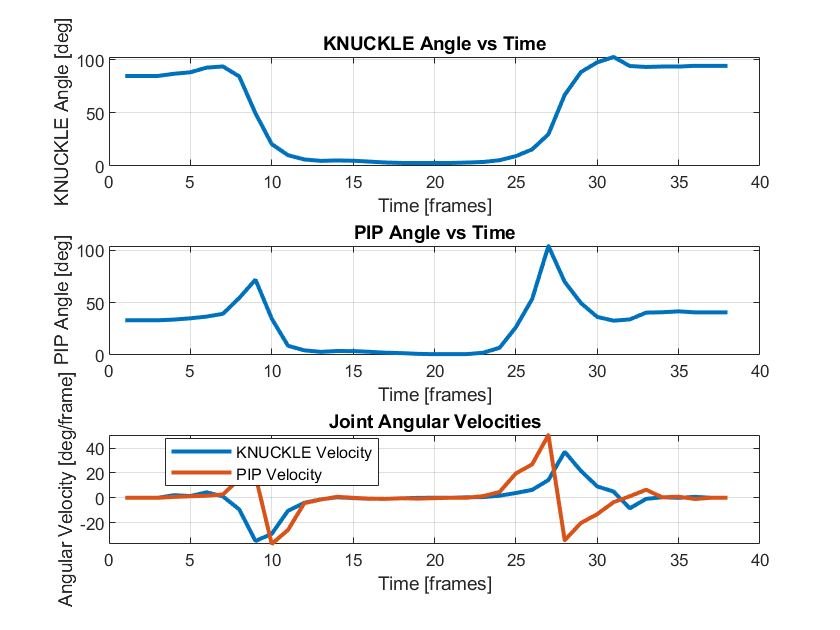
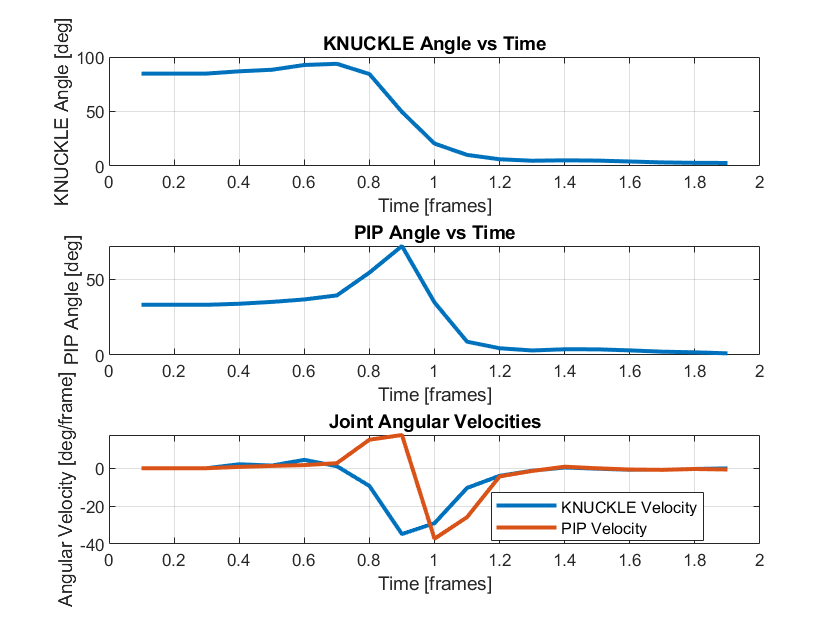
final

diff --git a/python_files_extract_csv_from_video/plotangles.m b/python_files_extract_csv_from_video/plotangles.m
@@ -9,7 +9,7 @@ DIP = [data.DIP_x, data.DIP_y, data.DIP_z];
 tip = [data.tip_x, data.tip_y, data.tip_z];
 
 %% Time vector
-time = (1:height(data))';
+time = (1:height(data))' / 10; % Divide time by 10
 
 %% Calculate joint angles
 % Angle at KNUCKLE (vector between KNUCKLE and PIP vs. horizontal axis)
@@ -25,6 +25,14 @@ PIP_angle = atan2d(vecnorm(cross(p_to_d, d_to_t, 2), 2, 2), dot(p_to_d, d_to_t, 
 %% Calculate angular velocities
 knuckle_angle_velocity = [0; diff(knuckle_angle)]; % Numerical derivative
 PIP_angle_velocity = [0; diff(PIP_angle)]; % Numerical derivative
+
+%% Truncate data for plotting (keep first half of the time series)
+half_idx = floor(height(data) / 2); % Index for half of the data
+time = time(1:half_idx);
+knuckle_angle = knuckle_angle(1:half_idx);
+PIP_angle = PIP_angle(1:half_idx);
+knuckle_angle_velocity = knuckle_angle_velocity(1:half_idx);
+PIP_angle_velocity = PIP_angle_velocity(1:half_idx);
 
 %% Plot results
 figure;
